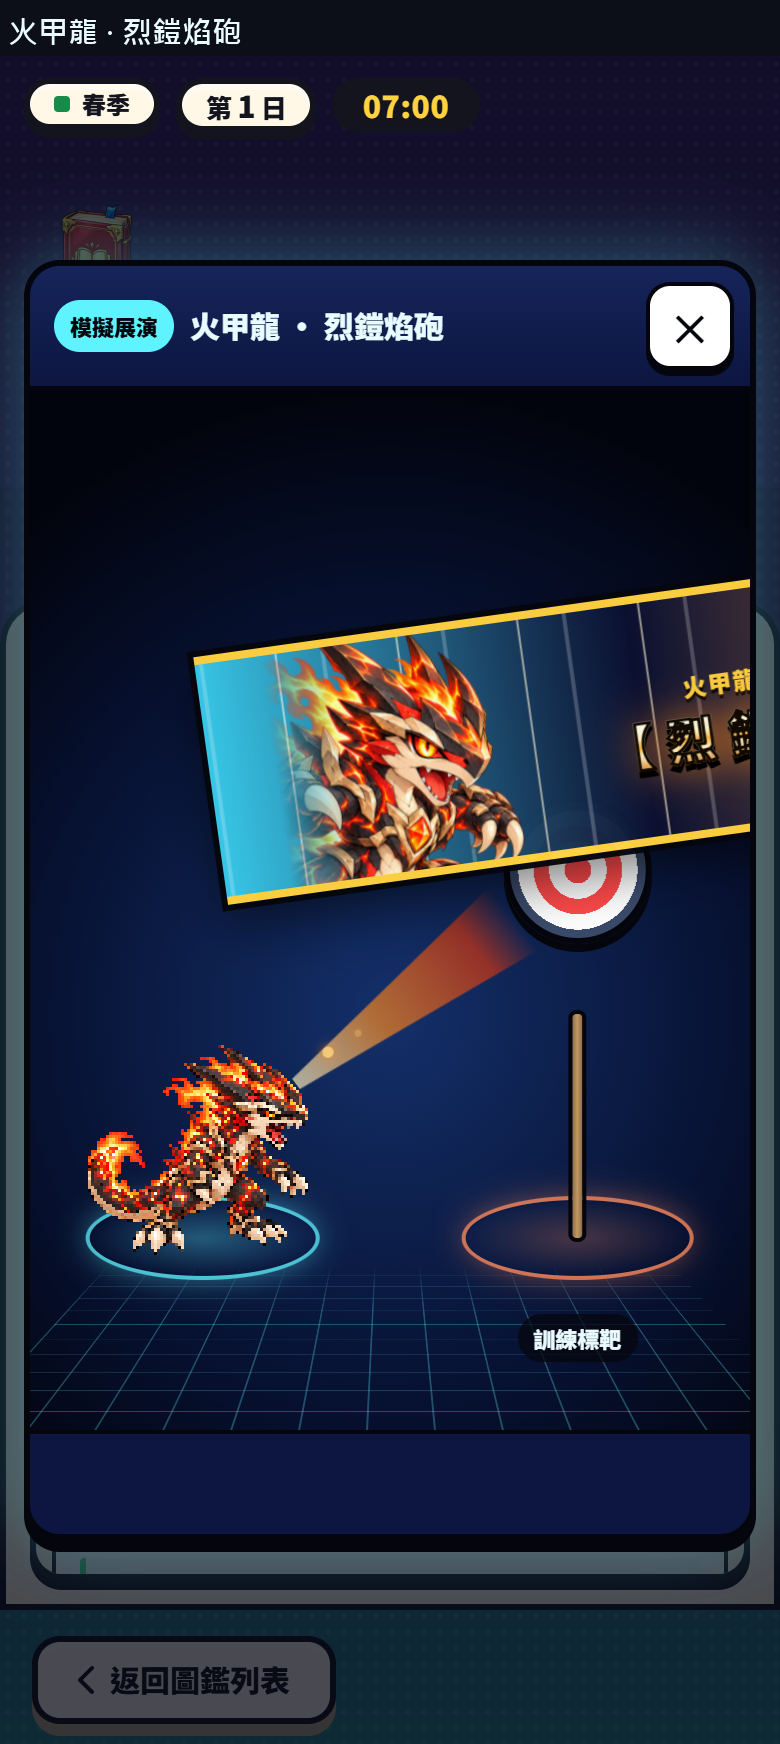
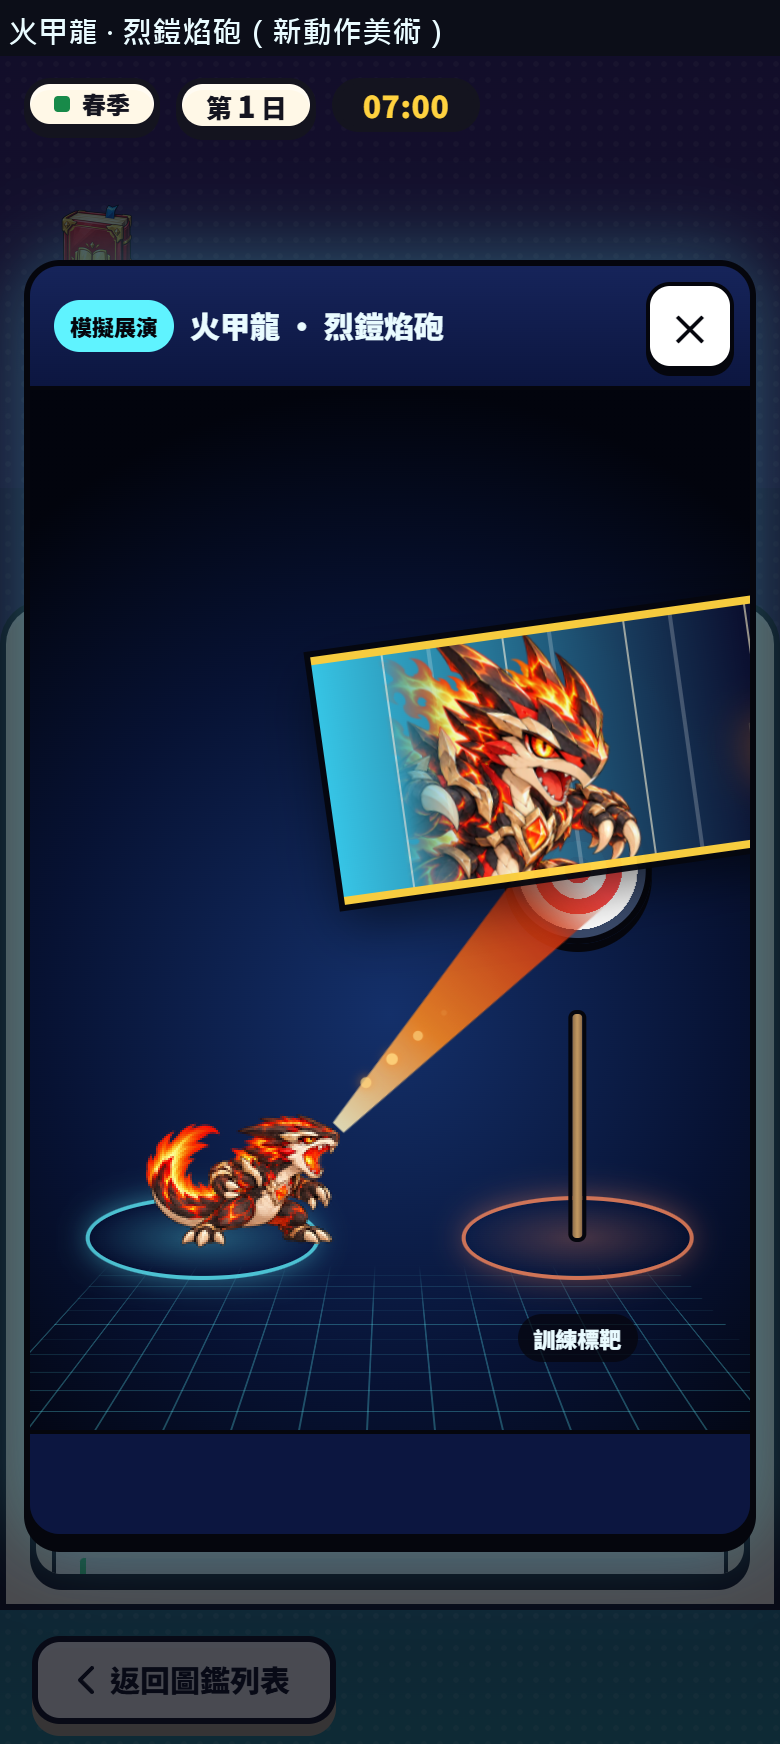
chore(publication): register the visual anchors and hero faces; refresh hashes and module preload
- WEB_BUILD_INPUTS / PUBLIC_RUNTIME_ALLOWLIST list monsterVisualAnchors218.js
  and database-hero-faces.v1.json and restate this batch's changed hashes.
- championship.html modulepreload regenerated (358 startup modules; it was
  already stale on main for the social and gacha modules).
- Report and figures refreshed on the reviewed character art from #114.

build:playtest / validate:playtest: 7,810 files, buildId de9c4949...;
npm run test:ci 3,180/3,180.

Changed region(s): [[0.0923, 0.3096, 0.9846, 0.7122], [0.3385, 0.0, 0.5538, 0.031]]

diff --git a/championship.html b/championship.html
@@ -160,6 +160,7 @@
     <link rel="modulepreload" href="./src/championship/presentation/story/HybridStoryDirector.js">
     <link rel="modulepreload" href="./src/championship/presentation/story/storyStagePuppeteer.js">
     <link rel="modulepreload" href="./src/championship/presentation/story/portraitVnOverlay.js">
+    <link rel="modulepreload" href="./src/championship/app/storyChapterMap.js">
     <link rel="modulepreload" href="./src/championship/app/ui/ambienceLayer.js">
     <link rel="modulepreload" href="./src/championship/app/interactiveTutorialPreview.js">
     <link rel="modulepreload" href="./src/championship/app/assetPrefetch.js">
@@ -184,6 +185,13 @@
     <link rel="modulepreload" href="./src/championship/app/friendsDrawer.js">
     <link rel="modulepreload" href="./src/championship/app/onlineBattleLobby.js">
     <link rel="modulepreload" href="./src/championship/app/futureSystemsPort.js">
+    <link rel="modulepreload" href="./src/championship/app/socialLinkDock.js">
+    <link rel="modulepreload" href="./src/championship/app/bindRewardPopup.js">
+    <link rel="modulepreload" href="./src/championship/app/bragCardPreview.js">
+    <link rel="modulepreload" href="./src/championship/online/cloudSaveEnvelope.js">
+    <link rel="modulepreload" href="./src/championship/text/onlineText.js">
+    <link rel="modulepreload" href="./src/championship/text/socialText.js">
+    <link rel="modulepreload" href="./src/championship/raising/nativeRaisingLifecycle.js">
     <link rel="modulepreload" href="./src/championship/app/settings/preferenceStore.js">
     <link rel="modulepreload" href="./src/championship/app/transientHint.js">
     <link rel="modulepreload" href="./src/championship/app/settings/preferenceEnvironment.js">
@@ -197,6 +205,7 @@
     <link rel="modulepreload" href="./src/championship/presentation/presentationPreferences.js">
     <link rel="modulepreload" href="./src/championship/text/locale.js">
     <link rel="modulepreload" href="./src/championship/text/uiText.js">
+    <link rel="modulepreload" href="./src/championship/app/cyberGachaIcons.js">
     <link rel="modulepreload" href="./src/data/championship/product-species-extensions.r1.json" as="json">
     <link rel="modulepreload" href="./src/championship/contracts/productSpeciesExtensions.js">
     <link rel="modulepreload" href="./src/championship/contracts/championshipContracts.js">
@@ -204,9 +213,11 @@
     <link rel="modulepreload" href="./src/championship/presentation/publicRuntimeAssets.js">
     <link rel="modulepreload" href="./src/championship/presentation/vs2/huntFoliageDither.js">
     <link rel="modulepreload" href="./src/championship/app/raisingGroundSupport.js">
+    <link rel="modulepreload" href="./src/championship/gacha/cyberGacha.js">
+    <link rel="modulepreload" href="./src/championship/app/onlineBindRewardPolicy.js">
+    <link rel="modulepreload" href="./src/championship/raising/nativeRaisingActor.js">
     <link rel="modulepreload" href="./src/championship/raising/ranchLayoutPositions.js">
     <link rel="modulepreload" href="./src/championship/contracts/productSpeciesData.js">
-    <link rel="modulepreload" href="./src/championship/raising/nativeRaisingActor.js">
     <link rel="modulepreload" href="./src/championship/raising/ranchDiscoveries.js">
     <link rel="modulepreload" href="./src/championship/raising/ranchPartnerLife.js">
     <link rel="modulepreload" href="./src/championship/raising/nativeRaisingMovement.js">
@@ -288,6 +299,8 @@
     <link rel="modulepreload" href="./src/championship/text/catalogs.th.js">
     <link rel="modulepreload" href="./src/championship/text/catalogs.vi.js">
     <link rel="modulepreload" href="./src/data/championship/database-hero-portraits.public.v1.json" as="json">
+    <link rel="modulepreload" href="./src/data/championship/database-hero-silhouettes.v1.json" as="json">
+    <link rel="modulepreload" href="./src/data/championship/database-hero-faces.v1.json" as="json">
     <link rel="modulepreload" href="./src/championship/presentation/pixiCharacterAnimationController.js">
     <link rel="modulepreload" href="./src/championship/presentation/nativeHuntCharacterAction.js">
     <link rel="modulepreload" href="./src/championship/presentation/battleCharacterAction.js">
@@ -303,13 +316,13 @@
     <link rel="modulepreload" href="./src/championship/presentation/medals/medalPresentationText.js">
     <link rel="modulepreload" href="./src/championship/presentation/medals/medalPresentationProfiles.js">
     <link rel="modulepreload" href="./src/championship/app/medalDetails.js">
-    <link rel="modulepreload" href="./src/championship/raising/nativeRaisingLifecycle.js">
     <link rel="modulepreload" href="./src/championship/text/onboardingText.js">
     <link rel="modulepreload" href="./src/championship/app/openingStoryPresentation.js">
     <link rel="modulepreload" href="./src/championship/app/openingEggChoices.js">
     <link rel="modulepreload" href="./src/championship/text/openingEggText.js">
     <link rel="modulepreload" href="./src/championship/text/openingStoryText.js">
     <link rel="modulepreload" href="./src/championship/text/openingFilmText.js">
+    <link rel="modulepreload" href="./src/championship/app/ui/menuEntryGlyphs.js">
     <link rel="modulepreload" href="./src/championship/presentation/originalCageVisualBindings.js">
     <link rel="modulepreload" href="./src/championship/cage/ranchSlotGeometry.js">
     <link rel="modulepreload" href="./src/championship/presentation/raisingCageArtPlan.js">
@@ -317,27 +330,30 @@
     <link rel="modulepreload" href="./src/championship/app/ui/loadingWalker.js">
     <link rel="modulepreload" href="./src/championship/presentation/shopGoodsUiArt.js">
     <link rel="modulepreload" href="./src/championship/data/storyRiftChapters.js">
+    <link rel="modulepreload" href="./src/championship/data/storyRiftMap.js">
     <link rel="modulepreload" href="./src/championship/text/interactiveTutorialPreviewText.js">
     <link rel="modulepreload" href="./src/championship/presentation/ceremony/ceremonyAudio.js">
     <link rel="modulepreload" href="./src/championship/text/juicyShowcaseText.js">
     <link rel="modulepreload" href="./src/championship/presentation/battleFx/battleFxPalettes.js">
+    <link rel="modulepreload" href="./src/championship/data/monsterVisualAnchors218.js">
     <link rel="modulepreload" href="./src/championship/presentation/publicCharacterRoster.js">
+    <link rel="modulepreload" href="./src/championship/presentation/reviewedSelection.js">
     <link rel="modulepreload" href="./src/championship/app/championshipStorageGuard.js">
     <link rel="modulepreload" href="./src/championship/online/localSimulationMode.js">
-    <link rel="modulepreload" href="./src/championship/online/cloudSaveEnvelope.js">
     <link rel="modulepreload" href="./src/championship/online/supabaseLoader.js">
     <link rel="modulepreload" href="./src/championship/online/supabaseMode.js">
-    <link rel="modulepreload" href="./src/championship/text/onlineText.js">
     <link rel="modulepreload" href="./src/data/championship/online-service.v1.json" as="json">
+    <link rel="modulepreload" href="./src/championship/app/saveConflictArbiter.js">
     <link rel="modulepreload" href="./src/championship/online/pvpRoomSession.js">
+    <link rel="modulepreload" href="./src/championship/config/socialLinksConfig.js">
+    <link rel="modulepreload" href="./src/championship/presentation/tamerBragCardGenerator.js">
+    <link rel="modulepreload" href="./src/data/championship/catalogs/creature-stat-curve.r1.json" as="json">
     <link rel="modulepreload" href="./src/championship/app/settings/preferenceSchema.js">
     <link rel="modulepreload" href="./src/championship/text/uiText.en.js">
     <link rel="modulepreload" href="./src/championship/text/uiText.ja.js">
     <link rel="modulepreload" href="./src/championship/text/uiText.th.js">
     <link rel="modulepreload" href="./src/championship/text/uiText.vi.js">
     <link rel="modulepreload" href="./assets/production/PUBLIC_RUNTIME_INDEX.json" as="json">
-    <link rel="modulepreload" href="./src/data/championship/catalogs/hunt-entry.r1.json" as="json">
-    <link rel="modulepreload" href="./src/data/championship/catalogs/raising-lifecycle.r1.json" as="json">
     <link rel="modulepreload" href="./src/championship/raising/ranchExplorationWalk.js">
     <link rel="modulepreload" href="./src/data/championship/battleCharacterProfiles.js">
     <link rel="modulepreload" href="./src/championship/raising/nativeRaisingFeedback.js">
@@ -349,6 +365,8 @@
     <link rel="modulepreload" href="./src/championship/raising/nativeRaisingSleep.js">
     <link rel="modulepreload" href="./src/championship/raising/nativeRaisingTraining.js">
     <link rel="modulepreload" href="./src/championship/raising/nativeRaisingCarry.js">
+    <link rel="modulepreload" href="./src/data/championship/catalogs/hunt-entry.r1.json" as="json">
+    <link rel="modulepreload" href="./src/data/championship/catalogs/raising-lifecycle.r1.json" as="json">
     <link rel="modulepreload" href="./src/data/championship/catalogs/raising-activity.r1.json" as="json">
     <link rel="modulepreload" href="./src/championship/cage/ranchEcology.js">
     <link rel="modulepreload" href="./src/championship/hunt/capture/nativeCapturePhases.js">
@@ -405,12 +423,14 @@
     <link rel="modulepreload" href="./src/championship/battle/battleParty.js">
     <link rel="modulepreload" href="./src/data/championship/battlePartyConditions.json" as="json">
     <link rel="modulepreload" href="./src/championship/text/medalDetailText.js">
-    <link rel="modulepreload" href="./src/data/championship/catalogs/creature-stat-curve.r1.json" as="json">
     <link rel="modulepreload" href="./src/championship/app/nativeOpeningStory.js">
     <link rel="modulepreload" href="./src/championship/app/storyCutsceneStage.js">
     <link rel="modulepreload" href="./src/championship/presentation/vs2/huntContactShadow.js">
     <link rel="modulepreload" href="./src/championship/presentation/characterRosterCore.js">
     <link rel="modulepreload" href="./src/championship/presentation/publicCharacterRenderContract.js">
+    <link rel="modulepreload" href="./src/championship/presentation/reviewedCharacterLoader.js">
+    <link rel="modulepreload" href="./src/data/championship/reviewed-animation-selection.v1.json" as="json">
+    <link rel="modulepreload" href="./src/championship/presentation/reviewedCharacterAnimation.js">
     <link rel="modulepreload" href="./src/championship/presentation/publicAlternateFormBindings.js">
     <link rel="modulepreload" href="./src/data/championship/catalogs/raising-feedback.r1.json" as="json">
     <link rel="modulepreload" href="./src/data/championship/battleNativeMathTables.js">

diff --git a/docs/reports/evo-cutin-dex-motion-2026-10-29/REPORT_ZH_TW.md b/docs/reports/evo-cutin-dex-motion-2026-10-29/REPORT_ZH_TW.md
@@ -1,6 +1,13 @@
 # 進化演出、必殺技斜條、圖鑑實機動作與招式發射位置修正（2026-10-29）
 
-分支 `feat/evo-cutin-dex-motion-20261029`（worktree `R:\Projects\Championship2026\evo-cutin-dex-motion-20261029`，自 `origin/main` 8768259d）。未 commit、未 push、未部署。
+分支 `feat/evo-cutin-dex-motion-20261029`（worktree `R:\Projects\Championship2026\evo-cutin-dex-motion-20261029`，自 `origin/main` 8768259d，之後合併 `main` a9f65f3c）。Owner 2026-10-29 授權自審後 commit、push、整合發佈。
+
+## 新角色動作美術（#114）
+
+- 已合併 `main` 的 #114（56c222dd，成長期／成熟期／覺醒體的審核後兩套動作美術，舊美術退役）與 #116。
+- 展演播放器同時支援兩種來源：原生圖集格子，以及新審核美術（`reviewedSelection.js`）的裁切格。新美術依樞軸定位、1:1 繪製後縮放；朝右繪製的 12 套會翻轉出招幀、口部點與預設朝向。
+- 218 隻校準已依新美術重跑：105 隻使用新審核美術（其中 12 套朝右繪製），113 隻沿用原圖集。新測試逐隻核對：播放器載入的美術來源與校準表一致。
+- 瀏覽器實測：火甲龍（34）、花藤幼姬（54）、發條龍（50，朝右）的實機動作，以及火甲龍必殺技、芽螺寶進化，全部都是新美術。
 
 ## 找到的「專屬進化數位文字」
 
@@ -31,7 +38,7 @@
 
 - `scripts/calibrate-218-visual-anchors.mjs`：沿用 runtime 自己的載入器讀格子資料；用 Playwright 內建的無頭 Chromium 解碼圖集與立繪、掃描 alpha 像素（不新增影像套件）。約 20 秒。支援 `--check`。
 - 輸出 `src/championship/data/monsterVisualAnchors218.js`（約 44 KB），詳細報告 `visual-anchors-218.report.json`。
-- 結果：218/218 都有動作規格、腳底、口部點與斜條頭框；動作格最大寬高比 2.51（單隻身體，無橫條）；218/218 的口部點位於身體 50%～92% 高度；腳底姿態：貼地 137、尾巴垂到腳下 77、懸浮 4（腳底一律用遊戲幾何原點，與牧場、對戰一致）；215/218 頭框中心落在不透明像素上，218/218 頭框內不透明比例 ≥ 25%。
+- 結果（新美術）：218/218 都有動作規格、腳底、口部點與斜條頭框；動作格最大寬高比 1.95（單隻身體，無橫條）；218/218 的口部點位於身體 50%～92% 高度；腳底姿態：貼地 162、尾巴垂到腳下 49、懸浮 7（腳底一律用遊戲幾何原點，與牧場、對戰一致）；215/218 頭框中心落在不透明像素上，218/218 頭框內不透明比例 ≥ 25%。
 - 立繪頭框來自 `scripts/measure-dex-hero-faces.py`（眼睛高光 → 上半身 → 人工複核 72 筆修正）。
 - 例外：species-222 的 runtime 只有歡呼動作，播放器會退回第一個可用動作。
 - 有些持武器的拍檔，口部點落在武器或伸出的前肢尖端。這符合「口部或武器尖端」的規格。
@@ -48,5 +55,5 @@
 
 - 「轉向」：角色美術只有左右兩向（沒有八方向格子），轉向是左右翻轉。
 - 對戰場上的 Pixi 招式發射點未改；本批修正的是斜條（對戰共用）與圖鑑展演。
-- 發布：新增的 `monsterVisualAnchors218.js`、`database-hero-faces.v1.json` 尚未登記到 `WEB_BUILD_INPUTS` 與 `PUBLIC_RUNTIME_ALLOWLIST`。部署前要補登記並刷新雜湊。
+- 發布：新增的 `monsterVisualAnchors218.js`、`database-hero-faces.v1.json` 已登記到 `WEB_BUILD_INPUTS` 與 `PUBLIC_RUNTIME_ALLOWLIST`，本批變更檔的雜湊已刷新。
 - 實體手機驗收尚未進行。
